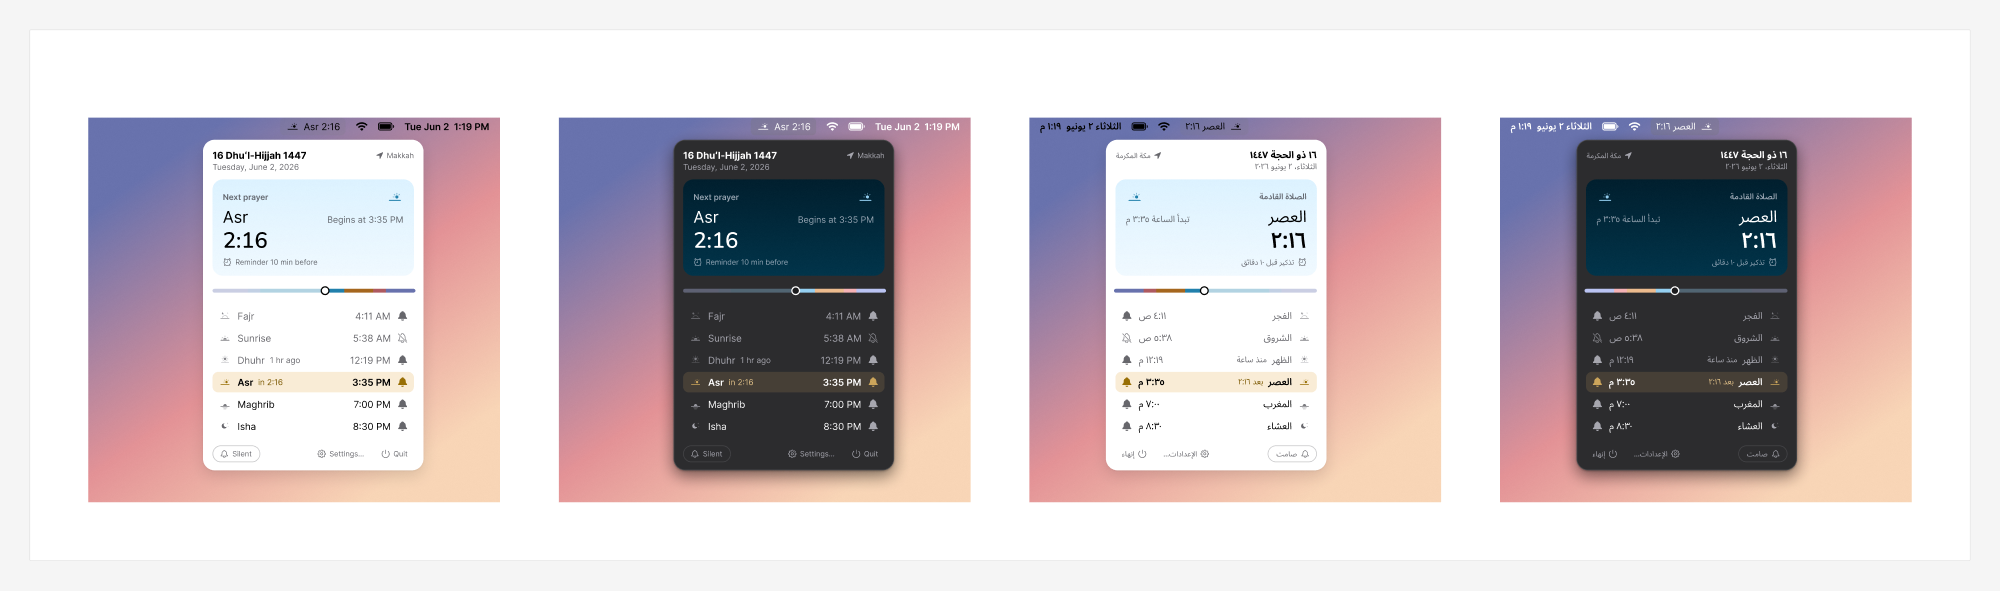
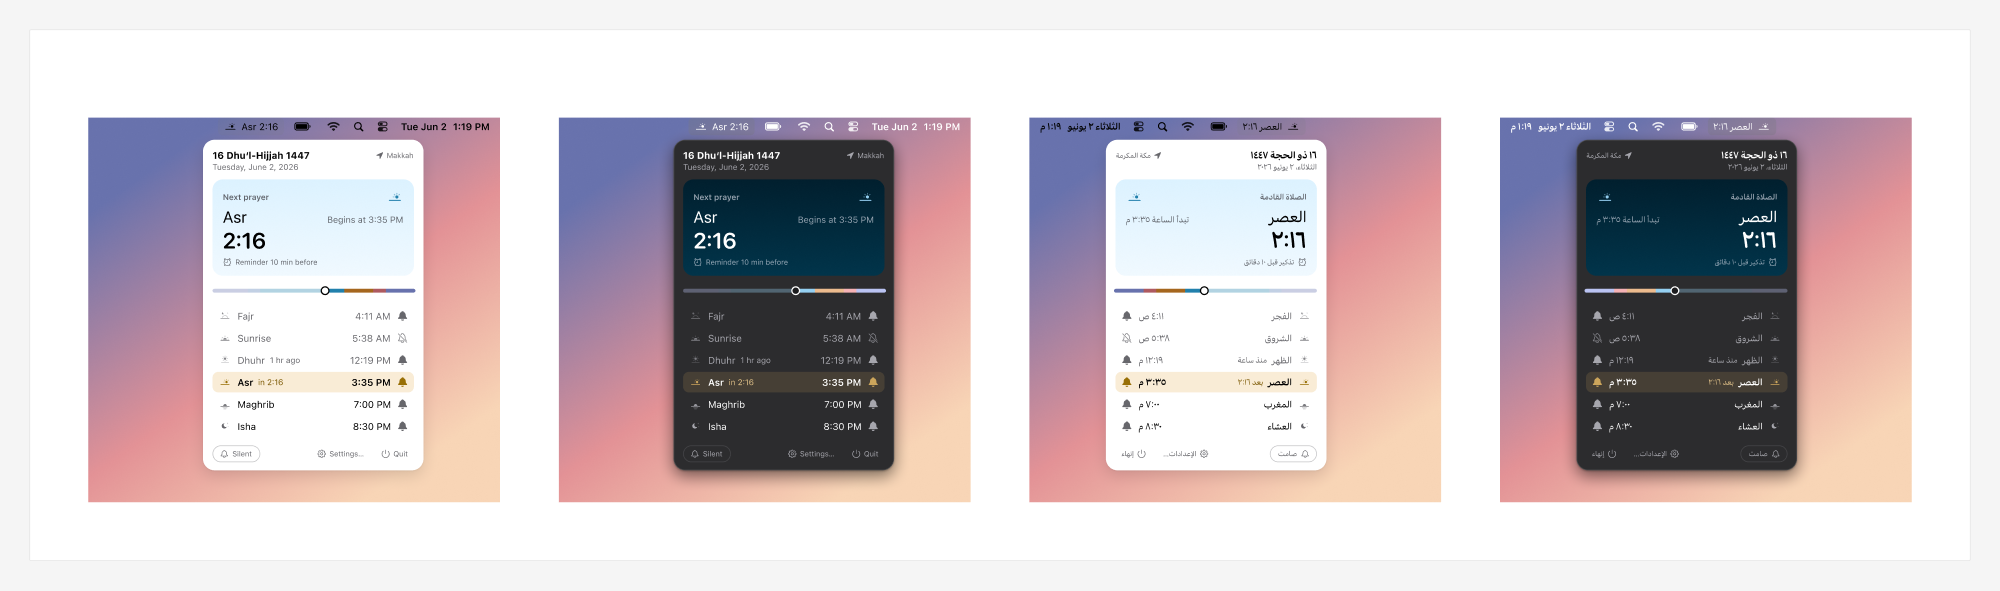
Render the previews with Apple's components and fonts
The System references in the Figma file are now Apple's own components
from Apple's design resources, so the previews show them, rendered in
Apple's fonts with the Typeface collection in its SF modes. Each image
keeps its pixel size.

The README says which text keeps the stand-in fonts and that Apple's
components need Figma's desktop app on a Mac with Apple's fonts.

diff --git a/Design/README.md b/Design/README.md
@@ -350,10 +350,16 @@ digits it shows.
 
 ## Fonts in the Figma file
 
-The Figma file draws text with stand-in fonts so it renders on any machine: Inter for SF
-Pro and SF Compact, Nunito for the rounded designs, and Noto Sans Arabic for Arabic. Its
-Typeface collection switches every style to Apple's fonts (SF Pro, SF Pro Rounded,
-SF Compact, SF Compact Rounded and SF Arabic) when they're installed.
+Salah's own text styles store stand-in fonts, so they render on any machine: Inter for SF
+Pro and SF Compact, Nunito for the rounded designs, and Noto Sans Arabic for Arabic. The
+file's Typeface collection switches every style to Apple's fonts (SF Pro, SF Pro Rounded,
+SF Compact, SF Compact Rounded, SF Arabic and SF Arabic Rounded) when they're installed.
+
+The system controls and bars on the screens (status bars, tab and navigation bars,
+toggles, buttons, alerts, the menu bar and the rest of the System references page) are
+Apple's own components, from Apple's iOS and iPadOS, macOS and watchOS design resources.
+They always draw in Apple's fonts, so open the file in Figma's desktop app on a Mac with
+SF Pro, SF Compact and SF Arabic installed to see them as designed.
 
 Code always uses the system font, so the stand-ins never ship. The typography tokens name
 the Apple fonts. Arabic text renders in SF Arabic and SF Arabic Rounded, which the system
@@ -361,8 +367,10 @@ picks; there's no separate Arabic token file.
 
 ## Previews
 
-`Previews/` holds a few rendered screens, for reading this folder without Figma. They use
-real times: Makkah on 2 June 2026 with Umm al-Qura, unless the image shows otherwise.
+`Previews/` holds a few rendered screens, for reading this folder without Figma. They show
+Apple's system components and are rendered in Apple's fonts, with the Typeface collection
+in its SF modes. They use real times: Makkah on 2 June 2026 with Umm al-Qura, unless the
+image shows otherwise.
 
 - `cover.png`: the cover of the library.
 - `iphone-today.png`: Today on iPhone, in English and Arabic, light and dark.
